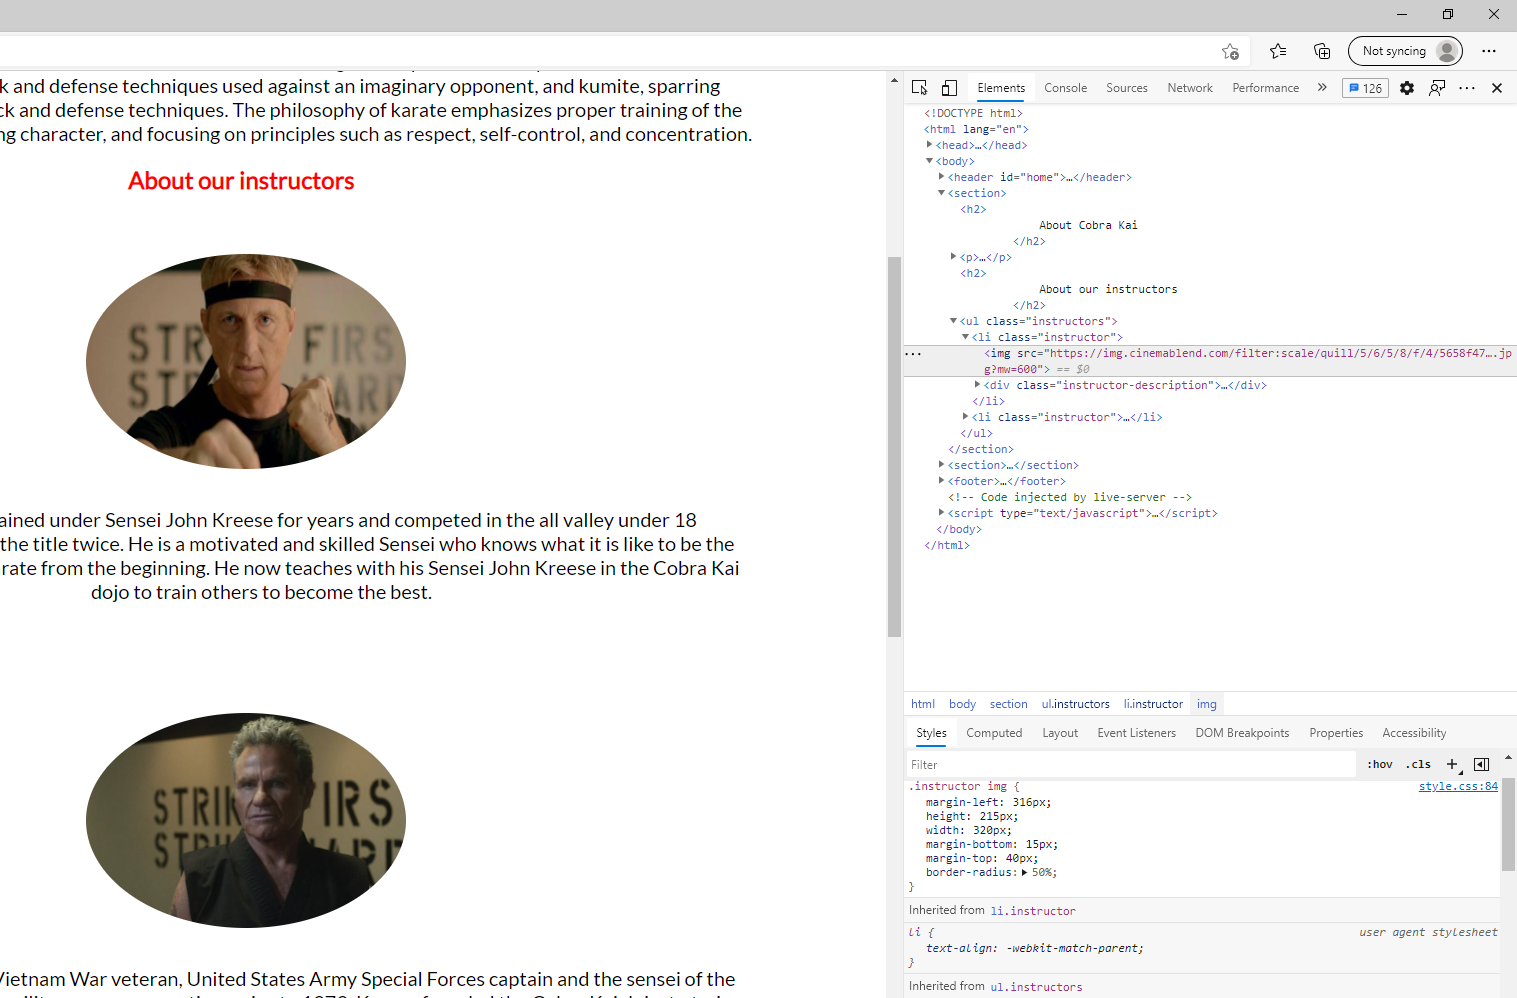
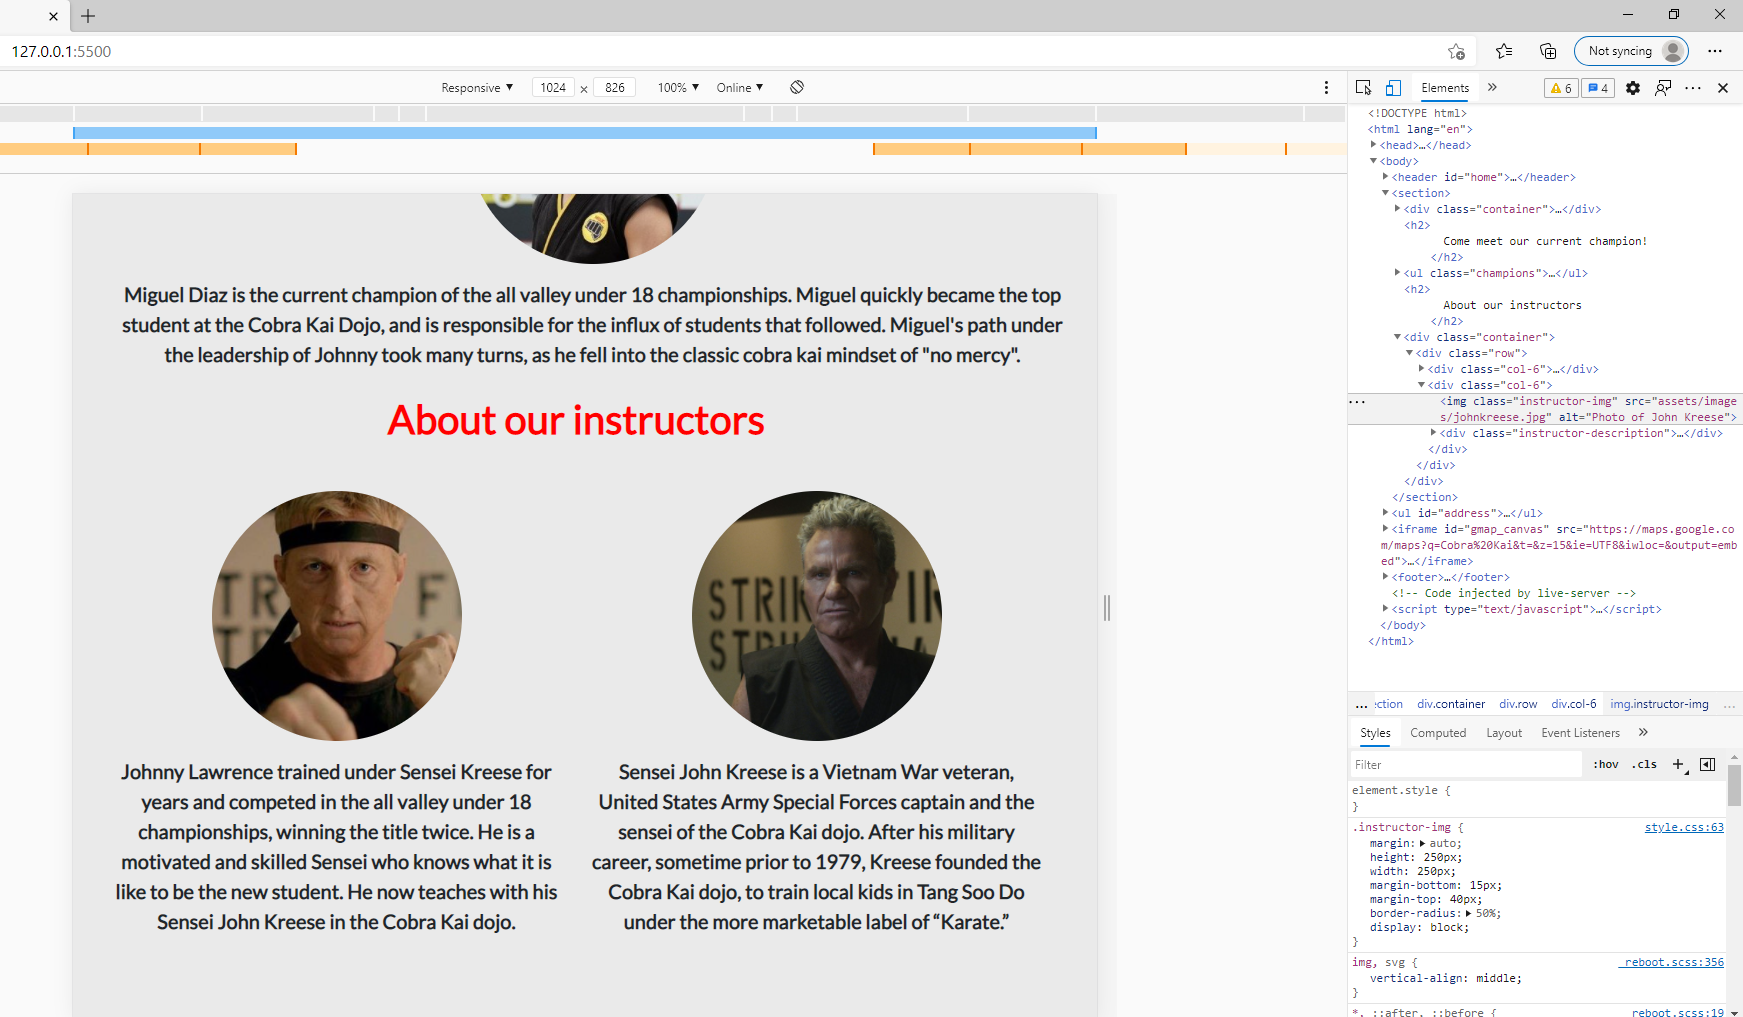
Update README.md on testing and bugs discovered during project

diff --git a/README.md b/README.md
@@ -3,7 +3,7 @@
 ![image of cobra kai](https://tv-fanatic-res.cloudinary.com/iu/s--jnyrsA_x--/f_auto,q_auto/v1529616090/cobra-kai-banner)
 
  This project was designed to allow younger age groups to learn more about karate and hopefully sign up to lessons. This webpage will allow users to read about karate, Cobra Kai in particular, look at the gallery, see timetables for lessons and to sign up for classes if they wish.
-As the developer i designed this project following watching the new Netflix TV series, Cobra Kai. I would like for younger kids to have a platform to learn more about Cobra Kai, view photos and hopefully come to learn!
+As the developer I designed this project following watching the new Netflix TV series, Cobra Kai. I would like for younger kids to have a platform to learn more about Cobra Kai, view photos and hopefully come to learn!
 
 # Contents
 
@@ -93,33 +93,35 @@ When building my web page I did make some changes which now differ to my wirefra
 # Bugs Discovered
 
 * ## Index.html
-    * Images were square so i changed this to make it more visually appealing using chrome dev tools. [Without border radius](assets/images/border-radius.png) and then I added a border radius of 50% which is [here](assets/images/border-radius-after.png).
+    * Images were square so I changed this to make it more visually appealing using chrome dev tools. [Without border radius](assets/images/border-radius.png) and then I added a border radius of 50% which is [here](assets/images/border-radius-after.png).
 
     * The margin between the social media links were too close together so using dev tools I played around with the padding size and found one that worked [here](assets/images/social-media-icons-after.png).
 
-    * I used bootstrap to align my images in a much more user friendly way. I then checked this using dev tools to ensure the design was consistent at my breakpoints. [printscreen](assets/images/bootstrap-images.png)
+    * I used bootstrap to align my images in a much more user friendly way. I then checked this using dev tools to ensure the design was consistent at my breakpoints which worked out much better [here](assets/images/bootstrap-images.png).
 
 * ## Signup.html
 
-    * My submit button would not align into the center. I used dev tools to see if i could align it but I then had to align my parent DIV centrally and the button then aligned [here](assets/images/submitbutton.png)
+    * My submit button would not align into the center. I used dev tools to see if I could align it but I then had to align my parent DIV centrally and the button then [aligned](assets/images/submitbutton.png).
 
 
    * Table layout from bootstrap did not work correctly when then scaled down to my mobile breakpoint.
    I changed the layout of the timetable so it was more visually appealing and especially when viewed on mobile devices.
-   The [table](assets/images/tablemobileview.png) before changes were made. [Updated](assets/images/newtableviewmobile.png) table is easier to view on mobile devices. 
+
+   * The [table](assets/images/tablemobileview.png) before changes were made. [Updated](assets/images/newtableviewmobile.png) table is easier to view on mobile devices. 
 
    * My navbar did not work across a few breakpoints so I added a Bootstrap navbar to ensure at each breakpoint the navbar is responsive. The new navbar can be seen [here](assets/images/navbar.png) where it becomes a dropdown navbar which is much more user friendly for smaller devices.
 
    * General bugs throughout my pages were layout issues on different devices and I fixed these by using margins and paddings which can be seen in my CSS. 
 
+   * When viewing my website on my own mobile, layout on the index.html page did not look right, there was padding around the second P element. I took this out to make the page more consistent on small devices [here](assets/images/mobileviewmargin.png).
 
-
+   * Instructor paragraphs viewed on my mobile looked too big, i changed the font size and it worked much better from 20px to 13px [here](assets/images/fontsizemobile.png).
 
 
 # Testing
 * I tested my media queries and responsive design using the dev tools on chrome, as you can see the tablet view [here](assets/images/1024.png) for the index page, gallery page [here](assets/images/1024gallery.png), signup page [here](assets/images/1024signup.png) and finally the classes page [here](assets/images/1024classes.png).
 
-* The same testing was done using the mobile view for the [index](assets/images/670index.png), [gallery](assets/images/670gallery), [signup](assets/images/670gallery.png) and the [classes](assets/images/670classes.png).
+* The same testing was done using the mobile view for the [index](assets/images/670index.png), [gallery](assets/images/670gallery.png), [signup](assets/images/670signup.png) and the [classes](assets/images/670classes.png).
 
 * I tested my media queries for the mobile view using dev tools which can be seen [here](assets/images/media-query-mobile-index.png)
 
@@ -127,16 +129,51 @@ When building my web page I did make some changes which now differ to my wirefra
 
 * When testing the social media icons, I clicked on them and they opened up the corresponding social media platform on a new page which is what I expected to happen so I knew that they worked.
 
-* I tested my HTML using the validator and initially there was an issue with a child element. [This](assets/images/htmlvalidator) was fixed as I had put the li and ul element in the wrong way and when this was fixed the issue was resolved.
+* I tested my HTML using the validator and initially there was an issue with a child element. [This](assets/images/htmlvalidator.png) was fixed as I had put the li and ul element in the wrong way and when this was fixed the issue was resolved. The HTML passed the [validator](assets/images/htmlvalidatorpass.png).
+
+
+* CSS VALIDATOR ***********
+
+# Testing UX 
+
+As a new customer:
+1. I want to read information on the type of karate learnt as this company 
+   * Index page has information on what karate is, what is expected and the benefits. 
+2. I want to see photographs to give me an idea of what to expect within the premises
+   * Gallery page contains a collage of up to date images.
+3. I want to be able to see a timetable with classes and times.
+   * Classes page has a timetable with days/times/type of class.
+4. I want a form which is easy to use where i can sign up for lessons
+   * Sign up page contains a form to enquire about signing up.
+5. I want to be able to return to the homepage quickly and easily
+   * Nav bar across all pages contains a logo which when clicked links back to the homepage.
+6. I need to have a contact telephone number and address
+   * Home page contains contact information including map with address.
+7. I want to visit the social media pages for various different platforms
+   * Footer of each page contains a an icon which when clicked links to the corresponding social media page.
+
+As a returning customer I want:
+1. To see the times and dates of upcoming classes
+   * Classes page has a timetable with days/times/type of class.
+2. Updated photographs from recent classes and competitions
+   * Gallery page contains a collage of up to date images.
+3. To have a contact telephone number
+   * Home page contains contact information including map with address.
+
+
+As a parent of customers I need:
+1. To know the instructors are qualified and trustworthy
+    * Home page has information on instructors with images.
+2. The premises are safe to carry out karate classes
+    * Gallery contains images showing inside the dojo with equipment.
+3. To see the timetable of my childrens classes
+    * Classes page has a timetable with days/times/type of class.
+4. To have an address and contact number
+    * Home page contains contact information including map with address.
 
 
 
 
-
-
--CSS validator, HTML validator
--testing client stories from UX section
--expected, testing, result, fix
 
 # Deployment
 -to github pages
